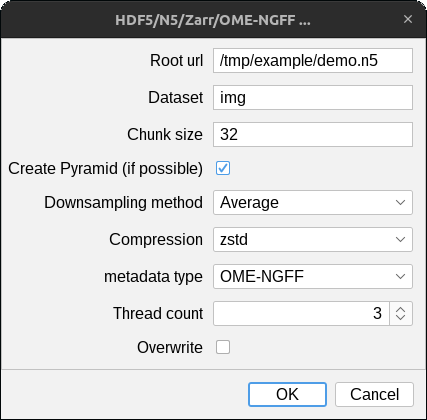
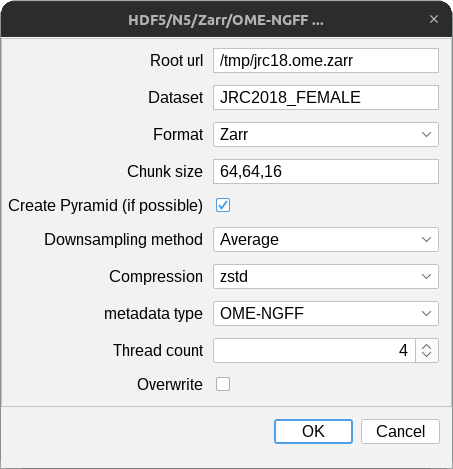
doc: "Format" parameter of exporter
* and uri format prefix

diff --git a/README.md b/README.md
@@ -54,8 +54,10 @@ Save full images opened in Fiji as HDF5/N5/Zarr/OME-NGFF datasets with `File > S
 <img src=https://raw.githubusercontent.com/saalfeldlab/n5-ij/master/doc/SaveN5Dialog.png width="280">
 
 Parameters
-* `N5Root` - the root location of the n5 (see also [Container types](#container-types))
+* `Root url` - the root location of the n5 (see also [Container types](#container-types))
 * `Dataset` - the name of the dataset.
+* `Format` - the storage format to use: one of `Auto`, `Zarr`, `N5`, or `HDF5`
+    * `Auto` : try to infer the storage format from the url (see below)
 * `Chunk size` - chunk/block size as comma-separated list.  
   * ImageJ's axis order is X,Y,C,Z,T. The chunk size must be specified in this order. You must skip any axis whose size is `1`, e.g. a 2D time-series without channels may have a chunk size of `1024,1024,1` (X,Y,T).
   * You may provide fewer values than the data dimension. In that case, the list will be expanded to necessary size with the last value, for example `64`, will expand to `64,64,64` for 3D data.
@@ -63,24 +65,29 @@ Parameters
 * `Downsampling method` - The downsampling method to be used if a multiscale pyramid can be created. See below for details.
 * `Compression` - The compression method to be used for chucnks / blocks. 
 * `metadata type` - style and type of metadata to store (see also [Metadata](#metadata))
-* `thread count` - number of threads used for parallel writing (see also [Cloud writing benchmarks](#cloud-writing-benchmarks))
+* `Thread count` - number of threads used for parallel writing (see also [Cloud writing benchmarks](#cloud-writing-benchmarks))
 * `Overwrite` - If checked, existing data may be deleted and overwritten without warning.
 
-## Container types
+### Container types
 
-The export plugin infers container type from the file/directory path or url given as the n5 root:
+If the "Format" option is set to `Auto`, the export plugin infers the storage format from the given url given. First, it checks scheme
+of the URL, next it checks the directory or file extension. Note that URLs may have two schemes [(as in neuroglancer)](https://connectomics.readthedocs.io/en/latest/external/neuroglancer.html#basic-usage),
+for example: `zarr://s3://my-bucket/my-key`
 
 * Filesystem N5 
+    * Specify a URL starting with `n5:`
     * Specify a directory ending in `.n5` 
     * example `/path/to/my/data.n5`
 * Zarr
+    * Specify a URL starting with `zarr:`
     * Specify a directory ending in `.zarr` 
     * example `/Users/user/Documents/sample.zarr`
 * HDF5
+    * Specify a URL starting with `hdf5:`
     * Specify a file ending in `.h5` ,`.hdf5`, or `.hdf`
     * example `C:\user\docs\example.h5`
  
-## Backend
+### Backend
 
 Specify the backend by protocol, "file:" or not protocol indicate the local file system:
 
